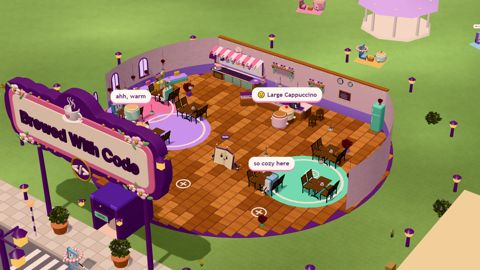
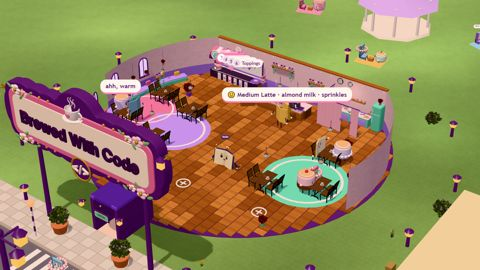
How to Play updated: 8 slides with Today's Menu, the kitchen and the new cake buttons; fresh pictures, a real night shot

diff --git a/src/ui/HowTo.tsx b/src/ui/HowTo.tsx
@@ -8,14 +8,17 @@ import { sfx } from '../systems/sound'
 const BASE = (import.meta as unknown as { env: { BASE_URL: string } }).env.BASE_URL
 const img = (n: string) => `${BASE}howto/${n}.jpg`
 type Slide = { pic: string | string[]; title: string; text: string; caps?: string[] }
+const T = TOUCH ? 'Tap' : 'Click', t = TOUCH ? 'tap' : 'click'
 const SLIDES: Slide[] = [
-  { pic: 'cafe', title: 'Your café lives in a teapot ☕', text: 'Townsfolk come in for coffee, sit down, sip and gossip. You run the whole place.' },
-  { pic: 'coffee', title: 'Take an order, brew it by hand', text: TOUCH ? 'Drag a glass onto the mat, hold the machine for a shot, steam the milk, pour, then serve. Kozie teaches your first two.' : 'Drag a glass onto the mat, hold the machine for a shot, steam the milk, pour, then serve. Kozie teaches your first two.' },
-  { pic: 'cake', title: 'Bake cakes to order 🎂', text: TOUCH ? 'Slide the cake along the belt with ◀ ▶ and tap the dispensers: tin, sponge, filling, frosting, toppings.' : 'Slide the cake along the belt with ◀ ▶ and click the dispensers: tin, sponge, filling, frosting, toppings.' },
+  { pic: 'cafe', title: 'Your café lives in a teapot', text: 'Townsfolk come in for coffee and cake, sit down, sip and chat. You run the whole place: the coffee counter, the kitchen and the cake bench.' },
+  { pic: 'menu', title: "Plan today's menu", text: `Walk to the door and flip the sign to OPEN. First you pick what to sell today: customers only order what's on it. ${T} the (i) on any item to see its recipe.` },
+  { pic: 'coffee', title: 'Brew coffee by hand', text: 'Drag a glass onto the mat, hold the machine for a shot, steam the milk at the wand, pour, then drag it to the pass to serve. Kozie walks you through your first two.' },
+  { pic: 'kitchen', title: 'Mix batter in the kitchen', text: `Go through the pink curtains next to the coffee counter. Pick a flavour, ${t} the flour, sugar, eggs and butter (and cocoa or strawberries), then hold the whisk to stir. The batter goes on the shelf for the cake bench.` },
+  { pic: 'cake', title: 'Bake cakes to order', text: `The order shows on the board on the left, so remember it. ${T} the picture buttons under each machine in order, 1 to 6: the cake rolls there and gets it. Roll it onto the star to serve.` },
   { pic: 'town', title: 'Step out into the town', text: 'Real shops sell your beans, milk and flour. Marshmallows live to the west, notebooks to the east.' },
-  { pic: ['view-explore', 'view-fp', 'view-dollhouse'], caps: ['🚶 Explore', '👁 First person', '🏠 Dollhouse'], title: 'Three ways to look',
-    text: TOUCH ? 'Tap the floor to walk. Drag one finger to look around. Switch views at the top right.' : 'W A S D to walk, drag to look around, E to do things. Switch views with 1 / 2 / 3.' },
-  { pic: 'night', title: 'Close up, wind down 🌙', text: 'At closing time flip the sign, then wipe a table and say goodnight to your regulars.' },
+  { pic: ['view-explore', 'view-fp', 'view-dollhouse'], caps: ['Explore', 'First person', 'Dollhouse'], title: 'Three ways to look',
+    text: TOUCH ? 'Tap the floor (or drag one finger) to walk. Two fingers to look around, pinch to zoom. Switch views with the button.' : 'W A S D to walk, drag to look around, E to do things. Switch views with 1 / 2 / 3.' },
+  { pic: 'night', title: 'Close up, wind down', text: 'At 8 pm the café closes. Flip the sign, clear the last cups and say goodnight to your regulars.' },
 ]
 
 export function HowTo({ onDone, doneLabel }: { onDone: () => void; doneLabel: string }) {

diff --git a/src/ui/Menu.tsx b/src/ui/Menu.tsx
@@ -98,7 +98,7 @@ export function Menu({ screen, setScreen }: { screen: Screen; setScreen: (s: Scr
           <div className="panel title-menu">
             <TitleBoard />
             {l ? <button className="tmb primary" data-act="continue" onClick={() => continueGame(() => start(PLAY[0]))}>
-              <PlayTri size={22} /><span>Continue<small>{l.name || 'Kozie'} · Day {l.day}</small></span></button>
+              <PlayTri size={22} /><span>Continue<small>{l.name || 'Kozie'} · {modeLabel(l.meta.mode)} · Day {l.day}</small></span></button>
               : <button className="tmb primary" data-act="new" onClick={() => setScreen('newgame')}><PlayTri size={22} /><span>New Game</span></button>}
             {l && <button className="tmb" data-act="new" onClick={() => setScreen('newgame')}><Spark size={22} /><span>New Game</span></button>}
             <button className="tmb" data-act="load" onClick={() => setScreen('load')}><Load size={22} /><span>Load Game</span></button>

diff --git a/tests/capture_howto.py b/tests/capture_howto.py
@@ -11,7 +11,7 @@ OUT = os.path.join(os.path.dirname(__file__), '..', 'public', 'howto'); os.maked
 HIDE = '.hud,.modes,.clockchip,.musicbtn,.lookhint,.lookchip,.fps,.viewbar,.fullscreenbtn,.menubtn,.dayclock,.dayopen,.coins,.takeorder,.wd-prompt,.creditsbtn,.ticket,.brew-next,.tut,.navtut,.cake-card,.navstop,.recipe{display:none!important}'
 
 with sync_playwright() as p:
-    br = p.chromium.launch(channel='msedge'); pg = br.new_page(viewport={'width': 1280, 'height': 720})
+    br = p.chromium.launch(channel='msedge'); pg = br.new_page(viewport={'width': 1280, 'height': 720}); pg.set_default_timeout(120000)
     pg.goto(URL); pg.wait_for_function('!!window.__game && !!window.game', timeout=90000); pg.wait_for_timeout(2500)
     pg.add_style_tag(content=HIDE)
     E = lambda js: pg.evaluate(js)
@@ -22,11 +22,22 @@ with sync_playwright() as p:
     E("window.__game.getState().setMode('dollhouse')"); pg.wait_for_timeout(300); E("window.__view.zoom = .75; window.__view.panZ = 1"); snap('cafe', 3500)
     E("window.__game.getState().setMode('pov')"); pg.wait_for_timeout(1500)
     E("(() => { const s = window.game.shop.getState(), f = window.game.line.line.peek(), w = s.orders[f.id].want; s.takeCup(w.size); s.shot() })()"); snap('coffee', 3200)
+    E("(() => { const k = window.__kitchen; k.getState().tip(); k.getState().choose('vanilla'); for (const p of ['flour','flour','sugar','sugar','eggs']) { k.setState({ pour: null }); k.getState().add(p) } k.setState({ pour: null }) })()")
+    E("window.__game.getState().setMode('kitchen')"); snap('kitchen', 3500)
+    E("window.__kitchen.setState({ batter: { vanilla: 6, chocolate: 6, strawberry: 6 } })")
     E("window.__game.getState().setMode('cake')"); pg.wait_for_timeout(1500)
-    E("(() => { const c = window.__cake.getState(); c.reset(); c.setTin('heart'); c.addLayer('strawberry'); c.addFilling('jam'); window.__cake.getState().addLayer('vanilla'); window.__cake.getState().frost('pink') })()"); snap('cake', 2500)
+    E("(() => { const c = window.__cake.getState(); c.reset(); c.setTin('heart'); c.addLayer('strawberry'); c.addFilling('jam'); window.__cake.getState().addLayer('strawberry') })()"); snap('cake', 3000)
     E("window.__game.getState().setMode('exterior')"); snap('town', 3000)
     E("window.__game.getState().setMode('walk'); (() => { const p = window.__game.getState().player; p.x = 1.5; p.z = 4 })()"); pg.wait_for_timeout(400); E("window.__view.yaw = .5"); snap('view-explore', 2500, 480)
     E("window.__game.getState().setMode('fp')"); pg.wait_for_timeout(400); E("window.__view.yaw = .5; window.__view.pitch = .05"); snap('view-fp', 2500, 480)
     E("window.__game.getState().setMode('dollhouse')"); pg.wait_for_timeout(300); E("window.__view.zoom = .9"); snap('view-dollhouse', 3000, 480)
-    E("window.__clock.set(21.6); window.__game.getState().setMode('dollhouse')"); pg.wait_for_timeout(300); E("window.__view.zoom = .8; window.__view.yaw = .4"); snap('night', 3000)
+    E("window.__clock.set(21.6); window.__game.getState().setMode('exterior')"); pg.wait_for_timeout(300); E("window.__view.zoom = 1.0; window.__view.yaw = .35"); snap('night', 6000)
+    # Today's Menu (a normal page: the menu UI isn't drawn in ?snap)
+    mp = br.new_page(viewport={'width': 1280, 'height': 720}); base = URL.split('/play.html')[0]
+    mp.goto(base + '/play.html'); mp.wait_for_function('!!window.__menu && !!window.__day', timeout=120000)
+    mp.evaluate("localStorage.setItem('brewed-with-code-avatar-v1', JSON.stringify({kind:'kozie',name:'Kozie',made:true,model:0,colour:0})); localStorage.setItem('bwc.tutorial.done','1'); localStorage.setItem('bwc.navtut.done','1'); sessionStorage.setItem('bwc.boot','continue')")
+    mp.reload(); mp.wait_for_function('!!window.__menu && !!window.__day', timeout=120000); mp.wait_for_timeout(9000)
+    mp.add_style_tag(content=HIDE)
+    mp.evaluate("window.__day.setState({ day: 8 }); window.__menu.getState().setIds(['espresso','latte','cappuccino','mocha','cake-chocolate','cake-strawberry']); window.__menu.getState().ask(() => {})")
+    mp.wait_for_timeout(1500); im = Image.open(io.BytesIO(mp.screenshot())).convert('RGB'); im = im.resize((960, 540)); im.save(os.path.join(OUT, 'menu.jpg'), quality=80); print('menu')
     br.close()
